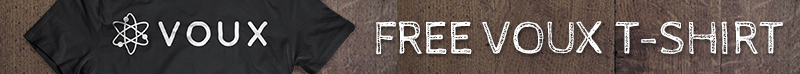
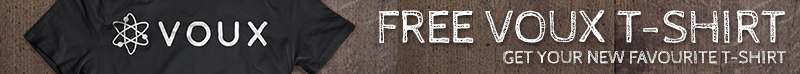
chore: Add t-shirt

Changed region(s): [[0.4688, 0.1351, 1.0, 0.8649]]

diff --git a/_layouts/post.html b/_layouts/post.html
@@ -23,7 +23,7 @@ layout: default
 
     <main class="article__content">
       <div class="voux voux--top">
-        <a href="//voux.io?utm_source=toddmotto.com&utm_medium=top" target="_blank">
+        <a href="//voux.io/giveaway?utm_source=toddmotto.com&utm_medium=top" target="_blank">
           <img src="//toddmotto.com/img/tshirt.jpg" alt="Get a free Voux t-shirt!">
         </a>
       </div>
